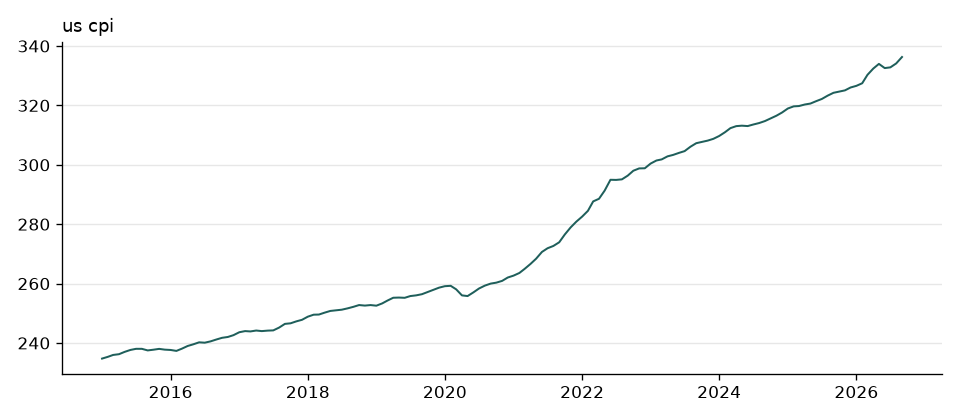
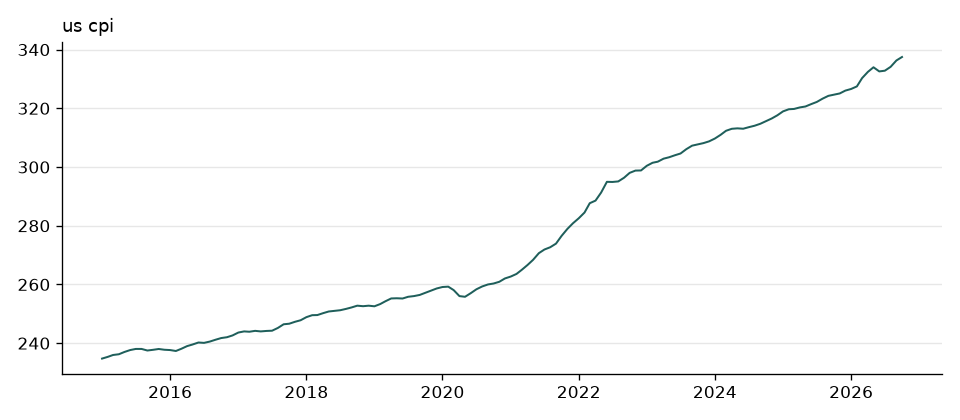
Data update 2026-11-11

diff --git a/README.md b/README.md
@@ -4,8 +4,8 @@ This data analysis tool visits major economic websites daily to download and org
 Automated ETL pipeline collecting macro and financial indicators from the
 ECB Data Portal, Eurostat, and FRED. Using GitHub Actions, this program is configured to run automatically every day without manual intervention, ensuring the latest statistics and figures are always kept up to date.
 
-**Last updated:** 2026-11-10 14:12 UTC
-**Observations stored:** 8,271
+**Last updated:** 2026-11-11 13:27 UTC
+**Observations stored:** 8,274
 
 ## Indicators
 
@@ -21,11 +21,11 @@ sides of the Atlantic.
 
 | Series | Source | Frequency | Latest date | Latest value |
 |---|---|---|---|---|
-| `ecb_policy_rate` | ecb | daily | 2026-11-10 | 2.65 |
-| `eur_usd` | ecb | daily | 2026-11-09 | 1.119 |
+| `ecb_policy_rate` | ecb | daily | 2026-11-11 | 2.65 |
+| `eur_usd` | ecb | daily | 2026-11-10 | 1.121 |
 | `hicp_euro_area` | eurostat | monthly | 2025-12-01 | 2 |
 | `unemployment_euro_area` | eurostat | monthly | 2026-09-01 | 6.5 |
-| `us_cpi` | fred | monthly | 2026-09-01 | 336.3 |
+| `us_cpi` | fred | monthly | 2026-10-01 | 337.5 |
 | `us_fed_funds_rate` | fred | monthly | 2026-10-01 | 3.88 |
 
 Note on coverage: `hicp_euro_area` uses the EA20 aggregate (20 countries) while
